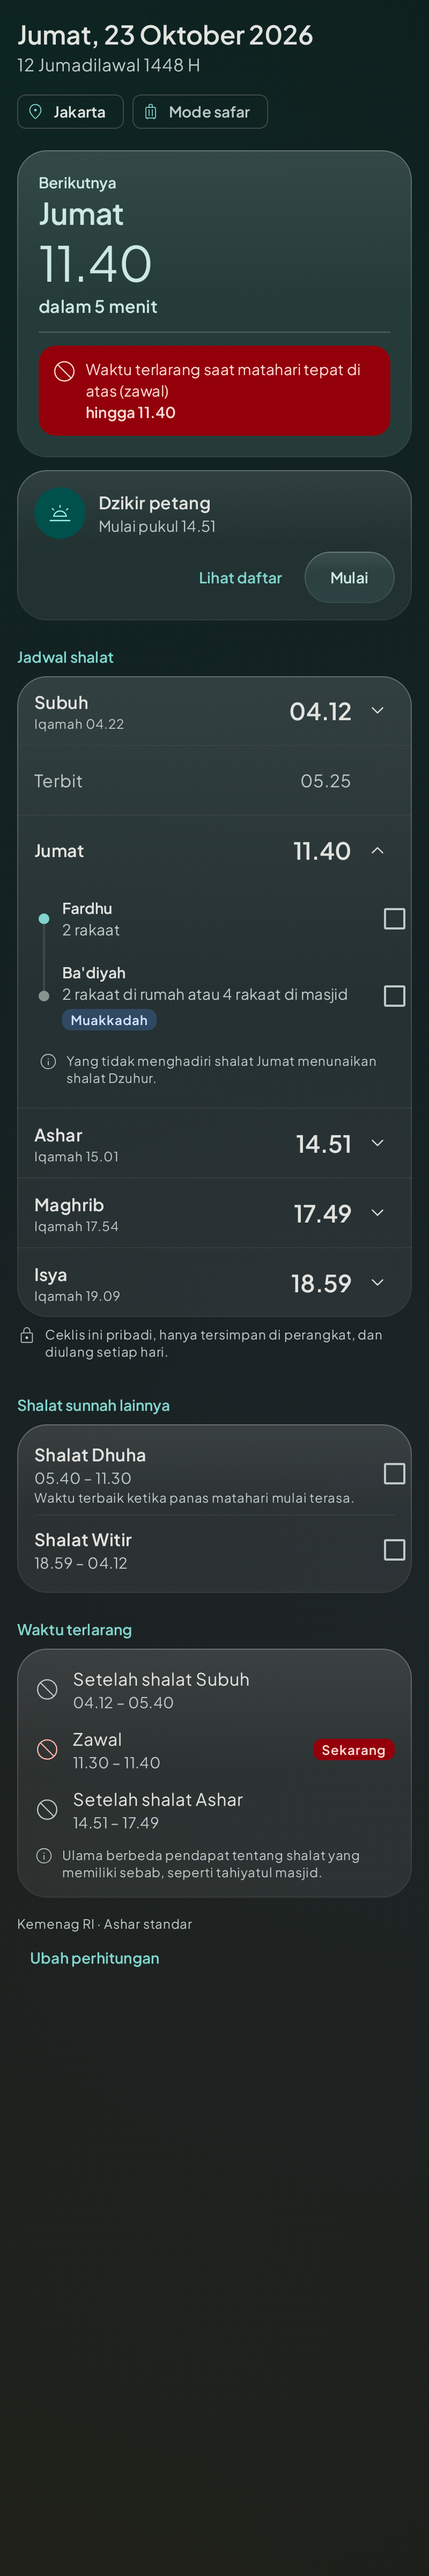
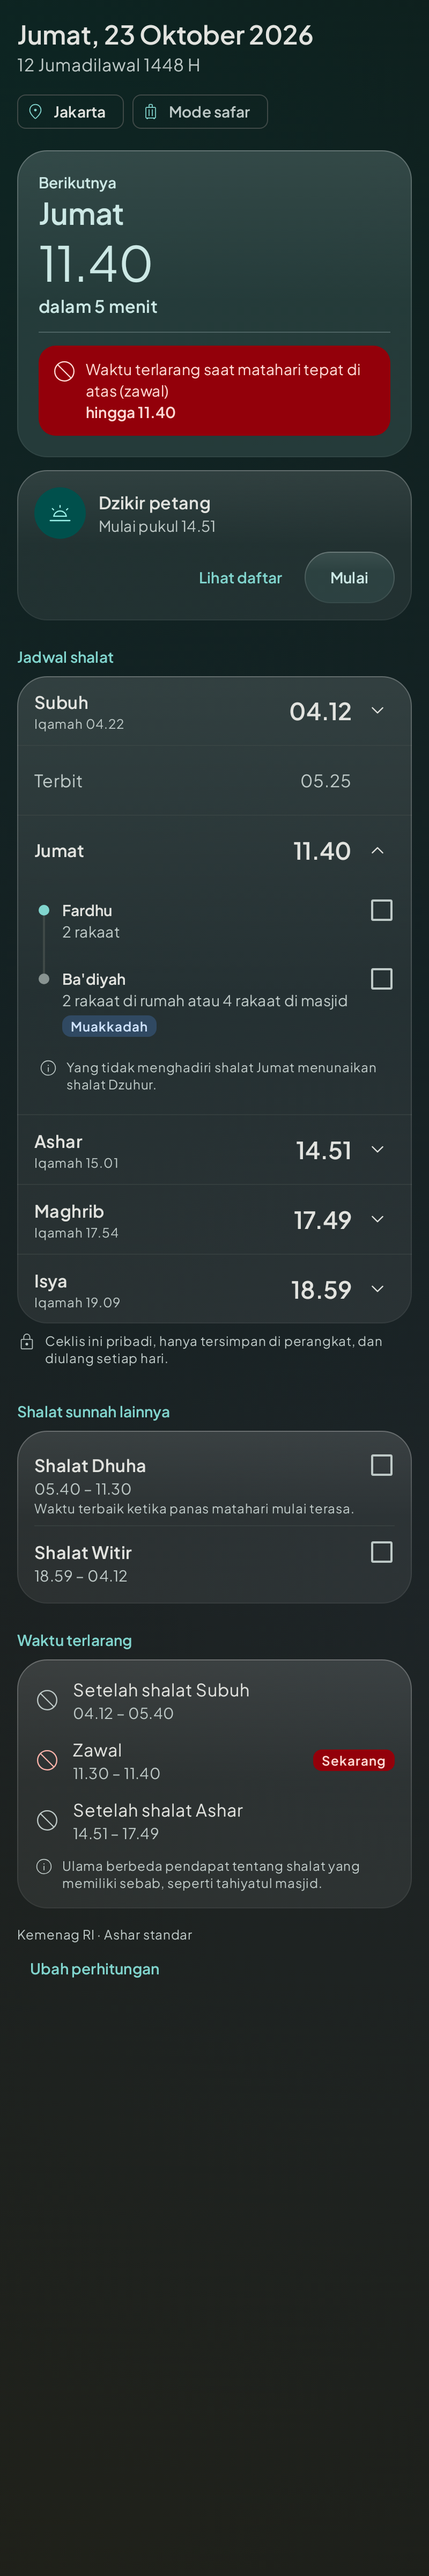
0.2.7: align checkboxes and timeline dots with each row's title
Checkboxes were centred on the whole row, so with a rak'ah count and a tier badge
under the title they sat beside the badge instead of the title.
- CheckRow aligns its checkbox to the top, in a fixed 48dp slot (a display-only
  Checkbox is only ~24dp tall); checkRowTitleInset centres the title's first line
  on that slot (CheckRowAnchor), at any font scale.
- Timeline dots use the same anchor, so dot, title and checkbox share one line.

Claude-Session: https://claude.ai/code/session_017UkjHqX5qKDRZrnQEnS1BM

Changed region(s): [[0.0312, 0.3438, 0.9688, 0.7812], [0.6875, 0.4375, 0.8125, 0.5312], [0.8125, 0.7188, 0.8438, 0.75]]

diff --git a/app/src/main/java/id/haho/muslimdaily/feature/today/TodayPrayerList.kt b/app/src/main/java/id/haho/muslimdaily/feature/today/TodayPrayerList.kt
@@ -1,5 +1,7 @@
 package id.haho.muslimdaily.feature.today
 
+import id.haho.muslimdaily.core.designsystem.component.checkRowTitleInset
+import id.haho.muslimdaily.core.designsystem.component.CheckRowAnchor
 import id.haho.muslimdaily.core.designsystem.glass.GlassBottomSheet
 import androidx.compose.animation.AnimatedVisibility
 import androidx.compose.animation.animateColorAsState
@@ -236,7 +238,7 @@ private fun TimelineStepRow(
     val hasEvidence = sunnah?.line?.entries?.any { e -> e.evidence.any { it.book.isNotBlank() } } == true
     val hasExtras = notes != null || hasEvidence
     Column(Modifier.fillMaxWidth().padding(start = AppTheme.spacing.md)) {
-        // The dot is centred on the checklist row itself, level with its checkbox.
+        // Dot, title and checkbox share one line: the step's first line.
         Row(Modifier.fillMaxWidth().height(IntrinsicSize.Min)) {
             Rail(isFirst, isLast && !hasExtras, emphasised = step is TimelineStep.Obligatory)
             CheckRow(
@@ -245,7 +247,12 @@ private fun TimelineStepRow(
                 modifier = Modifier.padding(start = AppTheme.spacing.md, end = AppTheme.spacing.xs),
                 minHeight = AppTheme.dimens.largeTouchTarget,
             ) {
-                Column(Modifier.weight(1f).padding(vertical = AppTheme.spacing.sm)) {
+                Column(
+                    Modifier.weight(1f).padding(
+                        top = checkRowTitleInset(MaterialTheme.typography.titleSmall),
+                        bottom = AppTheme.spacing.sm,
+                    ),
+                ) {
                     when (step) {
                         is TimelineStep.Obligatory -> {
                             Text(stringResource(R.string.rawatib_fard), style = MaterialTheme.typography.titleSmall)
@@ -333,7 +340,11 @@ private fun Rail(isFirst: Boolean, isLast: Boolean, emphasised: Boolean) {
     val lineColor = MaterialTheme.colorScheme.outlineVariant
     val dotColor = if (emphasised) MaterialTheme.colorScheme.primary else MaterialTheme.colorScheme.outline
     Column(Modifier.fillMaxHeight().width(AppTheme.dimens.timelineDot), horizontalAlignment = Alignment.CenterHorizontally) {
-        Box(Modifier.weight(1f).width(AppTheme.dimens.divider * 2).background(if (isFirst) lineColor.copy(alpha = 0f) else lineColor))
+        // Dot centred on the checkbox anchor, i.e. level with the step's title.
+        Box(
+            Modifier.height(CheckRowAnchor - AppTheme.dimens.timelineDot / 2).width(AppTheme.dimens.divider * 2)
+                .background(if (isFirst) lineColor.copy(alpha = 0f) else lineColor),
+        )
         Box(Modifier.size(AppTheme.dimens.timelineDot).background(dotColor, CircleShape))
         Box(Modifier.weight(1f).width(AppTheme.dimens.divider * 2).background(if (isLast) lineColor.copy(alpha = 0f) else lineColor))
     }
@@ -418,7 +429,12 @@ private fun SunnahWindowRow(
         minHeight = AppTheme.dimens.largeTouchTarget,
         modifier = Modifier.padding(start = AppTheme.dimens.screenGutter, end = AppTheme.spacing.xs),
     ) {
-        Column(Modifier.weight(1f).padding(vertical = AppTheme.spacing.sm)) {
+        Column(
+            Modifier.weight(1f).padding(
+                top = checkRowTitleInset(MaterialTheme.typography.titleMedium),
+                bottom = AppTheme.spacing.sm,
+            ),
+        ) {
             FlowRow(horizontalArrangement = Arrangement.spacedBy(AppTheme.spacing.sm)) {
                 Text(title, style = MaterialTheme.typography.titleMedium, modifier = Modifier.align(Alignment.CenterVertically))
                 if (active) {

diff --git a/app/src/main/java/id/haho/muslimdaily/core/designsystem/component/Components.kt b/app/src/main/java/id/haho/muslimdaily/core/designsystem/component/Components.kt
@@ -1,5 +1,6 @@
 package id.haho.muslimdaily.core.designsystem.component
 
+import androidx.compose.foundation.layout.Box
 import id.haho.muslimdaily.core.designsystem.glass.popOn
 import androidx.annotation.DrawableRes
 import androidx.compose.foundation.layout.Arrangement
@@ -18,6 +19,9 @@ import androidx.compose.material3.Text
 import androidx.compose.runtime.Composable
 import androidx.compose.ui.Alignment
 import androidx.compose.ui.Modifier
+import androidx.compose.ui.unit.dp
+import androidx.compose.ui.platform.LocalDensity
+import androidx.compose.ui.text.TextStyle
 import androidx.compose.ui.graphics.Color
 import androidx.compose.ui.res.painterResource
 import androidx.compose.ui.res.stringResource
@@ -70,6 +74,10 @@ fun TierBadge(tier: Tier, modifier: Modifier = Modifier) {
 /**
  * A whole-row toggle with a trailing checkbox. The row is the touch target (≥ 48dp) and TalkBack
  * reads it as one checkbox with [label].
+ *
+ * The checkbox sits at the top, so it stays level with the row's title however many lines
+ * (rak'ah count, badges, notes) follow. Pad the title with [checkRowTitleInset] to centre its
+ * first line on the checkbox.
  */
 @Composable
 fun CheckRow(
@@ -84,11 +92,25 @@ fun CheckRow(
             .fillMaxWidth()
             .heightIn(min = minHeight)
             .toggleable(value = checked, role = Role.Checkbox, onValueChange = onCheckedChange),
-        verticalAlignment = Alignment.CenterVertically,
+        verticalAlignment = Alignment.Top,
     ) {
         content()
-        Checkbox(checked = checked, onCheckedChange = null, modifier = Modifier.popOn(checked))
+        // A display-only Checkbox has no touch size of its own; the 48dp slot puts its centre on
+        // CheckRowAnchor, where titles (and timeline dots) are centred.
+        Box(Modifier.size(CheckRowAnchor * 2), contentAlignment = Alignment.Center) {
+            Checkbox(checked = checked, onCheckedChange = null, modifier = Modifier.popOn(checked))
+        }
     }
+}
+
+/** Centre of the checkbox's 48dp touch area, measured from the top of a [CheckRow]. */
+val CheckRowAnchor: Dp = 24.dp
+
+/** Top padding that centres the first line of [style] on the [CheckRow] checkbox. */
+@Composable
+fun checkRowTitleInset(style: TextStyle): Dp {
+    val lineHeight = with(LocalDensity.current) { style.lineHeight.toDp() }
+    return (CheckRowAnchor - lineHeight / 2).coerceAtLeast(0.dp)
 }
 
 /** A quiet explanatory note with a leading icon. */
